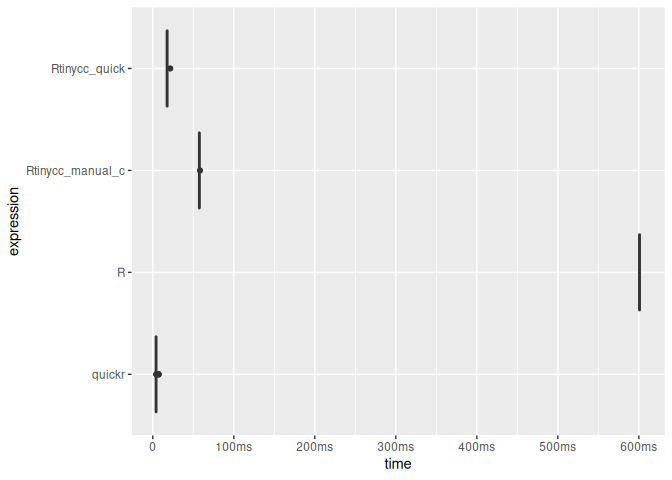
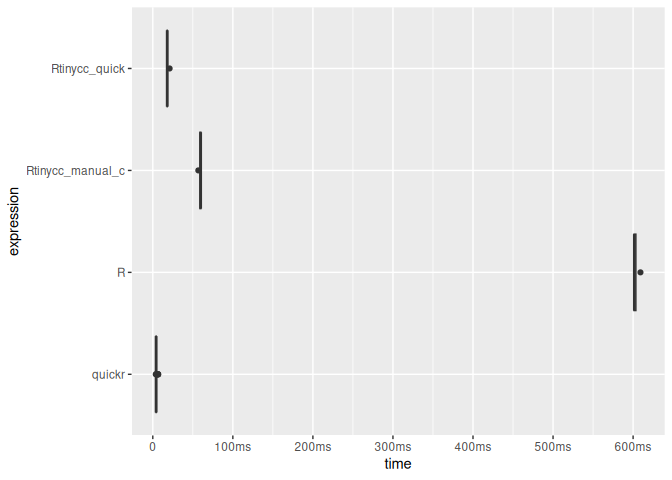
some improvments

diff --git a/README.md b/README.md
@@ -177,7 +177,7 @@ tcc_read_cstring(ptr)
 tcc_read_bytes(ptr, 5)
 #> [1] 68 65 6c 6c 6f
 tcc_ptr_addr(ptr, hex = TRUE)
-#> [1] "0x5a3264592ca0"
+#> [1] "0x5d32a4147800"
 tcc_ptr_is_null(ptr)
 #> [1] FALSE
 tcc_free(ptr)
@@ -208,11 +208,11 @@ through output parameters.
 ptr_ref <- tcc_malloc(.Machine$sizeof.pointer %||% 8L)
 target <- tcc_malloc(8)
 tcc_ptr_set(ptr_ref, target)
-#> <pointer: 0x5a3263d14c50>
+#> <pointer: 0x5d32a38728e0>
 tcc_data_ptr(ptr_ref)
-#> <pointer: 0x5a32632ed840>
+#> <pointer: 0x5d32a4952830>
 tcc_ptr_set(ptr_ref, tcc_null_ptr())
-#> <pointer: 0x5a3263d14c50>
+#> <pointer: 0x5d32a38728e0>
 tcc_free(target)
 #> NULL
 tcc_free(ptr_ref)
@@ -275,8 +275,8 @@ bench::mark(
 #> # A tibble: 2 × 6
 #>   expression      min   median `itr/sec` mem_alloc `gc/sec`
 #>   <bch:expr> <bch:tm> <bch:tm>     <dbl> <bch:byt>    <dbl>
-#> 1 Rtinycc       897ms    897ms      1.11   134.1MB    11.1 
-#> 2 Rbuiltin      541µs    577µs   1182.      9.05KB     6.12
+#> 1 Rtinycc       891ms    891ms      1.12   134.1MB    11.2 
+#> 2 Rbuiltin      540µs    570µs   1196.      9.05KB     6.18
 
 # For performance-sensitive code, move the loop into C and operate on arrays.
 ffi_vec <- tcc_ffi() |>
@@ -305,8 +305,8 @@ bench::mark(
 #> # A tibble: 2 × 6
 #>   expression        min   median `itr/sec` mem_alloc `gc/sec`
 #>   <bch:expr>   <bch:tm> <bch:tm>     <dbl> <bch:byt>    <dbl>
-#> 1 Rtinycc_vec    96.7µs  105.1µs     9418.    52.8KB     6.17
-#> 2 Rbuiltin_vec   17.7µs   18.5µs    42495.    78.2KB    34.0
+#> 1 Rtinycc_vec    97.3µs  101.8µs     9673.    52.8KB     6.15
+#> 2 Rbuiltin_vec   16.9µs   17.7µs    53587.    78.2KB    42.9
 ```
 
 ### Variadic calls (e.g. `Rprintf` style)
@@ -428,7 +428,7 @@ ffi <- tcc_ffi() |>
 
 x <- as.integer(1:100) # to avoid ALTREP
 .Internal(inspect(x))
-#> @5a327abfbba8 13 INTSXP g0c0 [REF(65535)]  1 : 100 (compact)
+#> @5d32ba8972c0 13 INTSXP g0c0 [REF(65535)]  1 : 100 (compact)
 ffi$sum_array(x, length(x))
 #> [1] 5050
 
@@ -444,7 +444,7 @@ y[1]
 #> [1] 11
 
 .Internal(inspect(x))
-#> @5a327abfbba8 13 INTSXP g0c0 [REF(65535)]  11 : 110 (expanded)
+#> @5d32ba8972c0 13 INTSXP g0c0 [REF(65535)]  11 : 110 (expanded)
 ```
 
 ### Benchmark
@@ -514,10 +514,10 @@ print(timings)
 #> # A tibble: 4 × 13
 #>   expression            min   median `itr/sec` mem_alloc `gc/sec` n_itr  n_gc
 #>   <bch:expr>       <bch:tm> <bch:tm>     <dbl> <bch:byt>    <dbl> <int> <dbl>
-#> 1 R                600.42ms 600.82ms      1.66     782KB    0         4     0
-#> 2 quickr             3.69ms   4.07ms    246.       782KB    2.03    486     4
-#> 3 Rtinycc_quick     17.16ms  17.58ms     56.5      796KB    0.504   112     1
-#> 4 Rtinycc_manual_c  56.88ms  57.48ms     17.4      796KB    0        35     0
+#> 1 R                600.17ms 601.54ms      1.66     782KB    0         4     0
+#> 2 quickr             3.71ms   4.17ms    240.       782KB    2.03    473     4
+#> 3 Rtinycc_quick      17.9ms  18.04ms     55.4      796KB    0.504   110     1
+#> 4 Rtinycc_manual_c  56.87ms  59.76ms     16.9      796KB    0        34     0
 #> # ℹ 5 more variables: total_time <bch:tm>, result <list>, memory <list>,
 #> #   time <list>, gc <list>
 plot(timings, type = "boxplot") + bench::scale_x_bench_time(base = NULL)
@@ -547,15 +547,15 @@ ffi <- tcc_ffi() |>
 
 p1 <- ffi$struct_point_new()
 ffi$struct_point_set_x(p1, 0.0)
-#> <pointer: 0x5a326a69e880>
+#> <pointer: 0x5d32ada770c0>
 ffi$struct_point_set_y(p1, 0.0)
-#> <pointer: 0x5a326a69e880>
+#> <pointer: 0x5d32ada770c0>
 
 p2 <- ffi$struct_point_new()
 ffi$struct_point_set_x(p2, 3.0)
-#> <pointer: 0x5a327c6c1e00>
+#> <pointer: 0x5d32abb7ab60>
 ffi$struct_point_set_y(p2, 4.0)
-#> <pointer: 0x5a327c6c1e00>
+#> <pointer: 0x5d32abb7ab60>
 
 ffi$distance(p1, p2)
 #> [1] 5
@@ -600,9 +600,9 @@ ffi <- tcc_ffi() |>
 
 s <- ffi$struct_flags_new()
 ffi$struct_flags_set_active(s, 1L)
-#> <pointer: 0x5a327ca29020>
+#> <pointer: 0x5d32b16bdf80>
 ffi$struct_flags_set_level(s, 9L)
-#> <pointer: 0x5a327ca29020>
+#> <pointer: 0x5d32b16bdf80>
 ffi$struct_flags_get_active(s)
 #> [1] 1
 ffi$struct_flags_get_level(s)
@@ -894,7 +894,7 @@ ffi <- tcc_ffi() |>
   tcc_compile()
 
 ffi$struct_point_new()
-#> <pointer: 0x5a326cb05160>
+#> <pointer: 0x5d32bd3276e0>
 ffi$enum_status_OK()
 #> [1] 0
 ffi$global_global_counter_get()
@@ -1010,11 +1010,11 @@ if (Sys.info()[["sysname"]] == "Linux") {
 #> # A tibble: 5 × 13
 #>   expression     min  median `itr/sec` mem_alloc `gc/sec` n_itr  n_gc total_time
 #>   <bch:expr> <bch:t> <bch:t>     <dbl> <bch:byt>    <dbl> <int> <dbl>   <bch:tm>
-#> 1 read_tabl…  47.3ms 48.21ms      20.7    6.33MB      0       2     0     96.4ms
-#> 2 vroom_df_…  7.39ms  7.66ms     131.     1.22MB      0       2     0     15.3ms
-#> 3 vroom_df_…  7.16ms  7.22ms     138.     1.22MB      0       2     0     14.4ms
-#> 4 c_read_df  21.16ms 21.43ms      46.7    1.23MB      0       2     0     42.9ms
-#> 5 io_uring_… 20.31ms 20.31ms      49.2    1.23MB     49.2     1     1     20.3ms
+#> 1 read_tabl… 46.81ms 48.45ms      20.6    6.33MB        0     2     0     96.9ms
+#> 2 vroom_df_…  7.31ms  7.57ms     132.     1.22MB        0     2     0     15.1ms
+#> 3 vroom_df_…   7.1ms  7.14ms     140.     1.22MB        0     2     0     14.3ms
+#> 4 c_read_df  21.35ms 21.39ms      46.8    1.23MB        0     2     0     42.8ms
+#> 5 io_uring_… 20.29ms 20.43ms      48.9    1.23MB        0     2     0     40.9ms
 #> # ℹ 4 more variables: result <list>, memory <list>, time <list>, gc <list>
 ```
 
@@ -1066,11 +1066,11 @@ ffi <- tcc_ffi() |>
 o <- ffi$struct_outer_new()
 i <- ffi$struct_inner_new()
 ffi$struct_inner_set_a(i, 42L)
-#> <pointer: 0x5a327cade8e0>
+#> <pointer: 0x5d32c0f18320>
 
 # Write the inner pointer into the outer struct
 ffi$struct_outer_in_addr(o) |> tcc_ptr_set(i)
-#> <pointer: 0x5a327fce7ec0>
+#> <pointer: 0x5d32bdf9d600>
 
 # Read it back through indirection
 ffi$struct_outer_in_addr(o) |>
@@ -1099,9 +1099,9 @@ ffi <- tcc_ffi() |>
 
 b <- ffi$struct_buf_new()
 ffi$struct_buf_set_data_elt(b, 0L, 0xCAL)
-#> <pointer: 0x5a3270aa25e0>
+#> <pointer: 0x5d32a983a960>
 ffi$struct_buf_set_data_elt(b, 1L, 0xFEL)
-#> <pointer: 0x5a3270aa25e0>
+#> <pointer: 0x5d32a983a960>
 ffi$struct_buf_get_data_elt(b, 0L)
 #> [1] 202
 ffi$struct_buf_get_data_elt(b, 1L)
